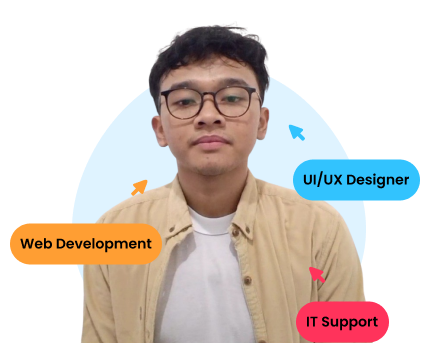
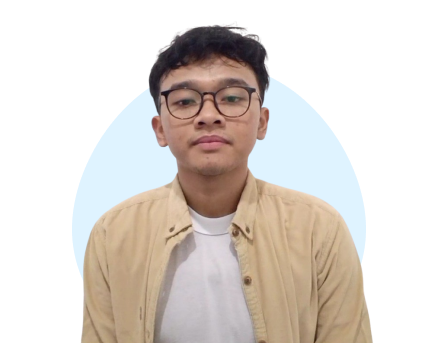
*BIG UPDATE
Update for all and focus to build portofolio web design for junior web developer untill now

diff --git a/src/component/home/Footer/FooterBody.jsx b/src/component/home/Footer/FooterBody.jsx
@@ -2,26 +2,10 @@ import React from "react";
 import { getContentSocialMedia } from "../../../utils/DataHome";
 
 function FooterBody() {
-  const linkNavbar = [
-    { name: "About Me", id: "about" },
-    { name: "Experience", id: "experience" },
-    { name: "Project", id: "project" },
-    { name: "Gallery", id: "gallery" },
-    { name: "Find Me", id: "findme" },
-  ];
-
-  const scrollToSection = (id) => {
-    const element = document.getElementById(id);
-    if (element) {
-      const yOffset = -120;
-      const y = element.getBoundingClientRect().top + window.scrollY + yOffset;
-      window.scrollTo({ top: y, behavior: "smooth" });
-    }
-  };
-
   return (
-    <div className="footer space-y-[64px]">
-      <div className="flex flex-wrap gap-16 items-center w-full">
+    <div className="footer space-y-[32px] text-center">
+      <h6 className="text-white font-semibold">Follow Us</h6>
+      <div className="flex flex-wrap gap-16 items-center justify-center w-full">
         {getContentSocialMedia().map((link) => (
           <a
             href={link.url}
@@ -30,21 +14,8 @@ function FooterBody() {
             rel="noopener noreferrer"
             className="sm:w-full md:w-auto custome_link"
           >
-            <h1 className="text-white font-semibold md:w-auto w-full">
-              {link.name}
-            </h1>
+            <img src={link.img} alt={`Logo ${link.name}`} />
           </a>
-        ))}
-      </div>
-      <div className="flex flex-wrap gap-16 items-center w-full">
-        {linkNavbar.map((link, index) => (
-          <h1
-            className="text-white md:w-auto w-full cursor-pointer"
-            key={index}
-            onClick={() => scrollToSection(link.id)}
-          >
-            {link.name}
-          </h1>
         ))}
       </div>
       <div className="copyright text-white font-base">&#169; 2025 Suekko</div>

diff --git a/src/component/home/Hero/HeroBody.jsx b/src/component/home/Hero/HeroBody.jsx
@@ -15,12 +15,15 @@ function HeroBody() {
               Aldi Dharmawan
             </h1>
             <div className="space-y-3">
-              <p className="font-light">Tech Enthusiast</p>
+              <p className="font-light">Junior Web Developer</p>
               <hr className="w-full xl:w-1/2 h-1 bg-blue-divider rounded" />
               <p className="font-light">
-                Informatics Engineering graduate from Gunadarma University with
-                a background in Computer and Network Engineering. Skilled in Web
-                Development, IT Support, and UI/UX design
+                Experienced Web Developer specializing in Laravel, MySQL, and
+                React.js. Skilled in building dynamic and responsive web
+                applications, managing complex databases, and optimizing
+                performance. Passionate about problem-solving, client-driven
+                development, and implementing modern technologies to create
+                high-quality digital solutions.
               </p>
               <HeroButton />
             </div>
@@ -28,7 +31,7 @@ function HeroBody() {
         </div>
         <div className="profile w-full">
           <img
-            src="/src/assets/images/profile-svg.svg"
+            src="/src/assets/images/profile.png"
             alt="Profile"
             className="mx-auto mt-12 lg:mx-0 lg:ml-auto lg:mt-0 relative top-[-20px]"
           />

diff --git a/src/utils/DataHome.js b/src/utils/DataHome.js
@@ -61,6 +61,12 @@ const getContentSocialMedia = () => [
     url: "https://www.linkedin.com/in/aldi-dharmawan-4b76a9221/",
   },
   {
+    img: "/src/assets/images/logo-instagram.png",
+    name: "Instagram",
+    color: "--color-purple-instagram",
+    url: "https://www.instagram.com/dhrmwnaldi_/",
+  },
+  {
     img: "/src/assets/images/logo-github.png",
     name: "Github",
     color: "--color-black-github",
@@ -68,7 +74,7 @@ const getContentSocialMedia = () => [
   },
   {
     img: "/src/assets/images/logo-instagram.png",
-    name: "Instagram",
+    name: "Opensea",
     color: "--color-purple-instagram",
     url: "https://www.instagram.com/dhrmwnaldi_/",
   },

diff --git a/src/component/home/Navbar/PortoNavbar.jsx b/src/component/home/Navbar/PortoNavbar.jsx
@@ -6,7 +6,7 @@ function PortoNavbar() {
   const location = useLocation();
 
   useEffect(() => {
-    const sections = ["about", "experience", "project", "gallery", "findme"];
+    const sections = ["about", "experience", "project", "findme"];
 
     const handleScroll = () => {
       let currentSection = "";
@@ -52,7 +52,7 @@ function PortoNavbar() {
           Suekko
         </a>
         <ul className="flex space-x-6 font-semibold">
-          {["about", "experience", "project", "gallery", "findme"].map(
+          {["about", "experience", "project", "findme"].map(
             (section) => (
               <li key={section}>
                 <button

diff --git a/src/component/PortoApp.jsx b/src/component/PortoApp.jsx
@@ -27,7 +27,7 @@ class PortoApp extends React.Component {
                 <ExperienceList />
                 <ProjectListUIUX />
                 <ProjectList />
-                <GalleryList />
+                {/* <GalleryList /> */}
                 <FindMeSection />
               </>
             }
